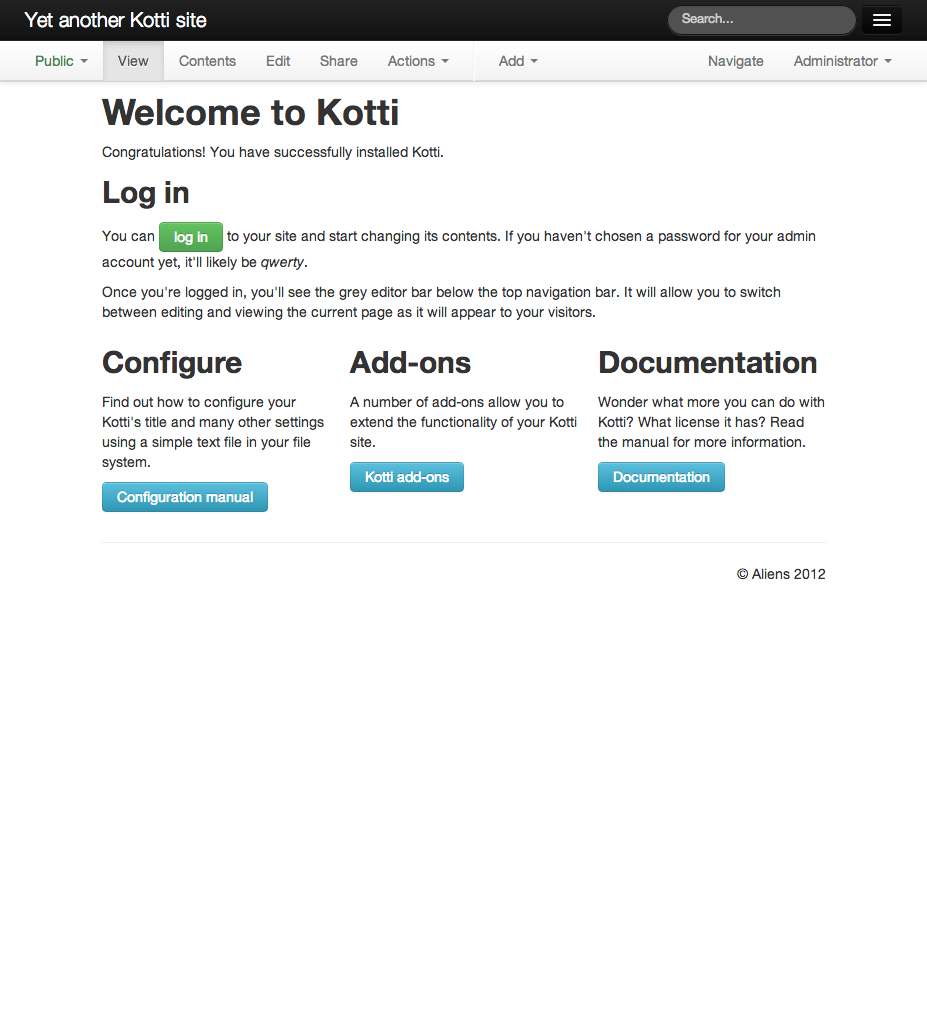
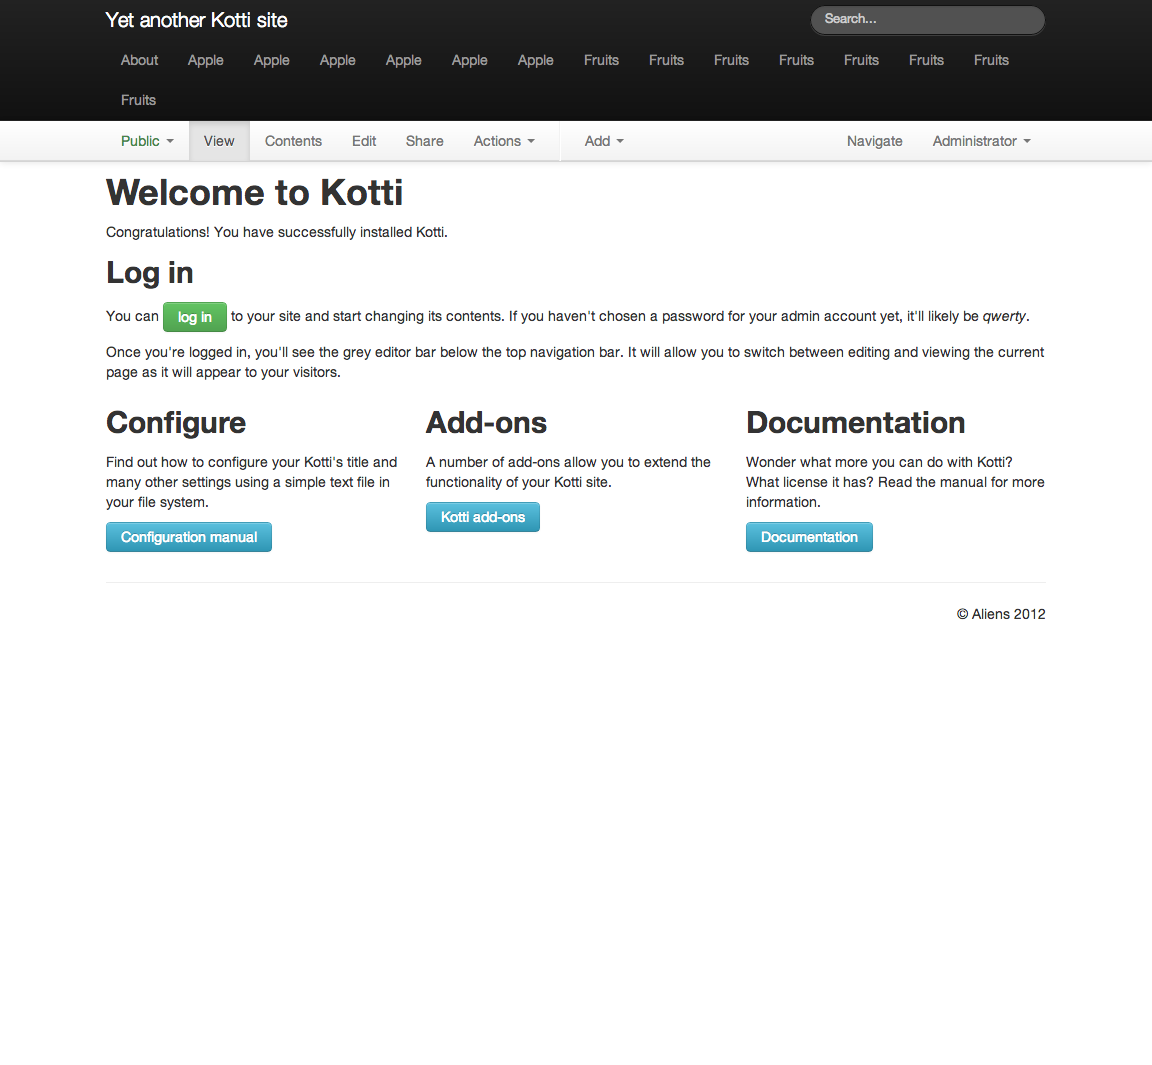
Improved capture script to use WebdriverWait, and with better ordering and flow. Added reporting system with a timer.

Changed region(s): [[0.0, 0.0, 1.0, 0.5162], [0.7853, 0.5465, 0.9061, 0.6072]]

diff --git a/scripts/kotti_capture.py b/scripts/kotti_capture.py
@@ -1,21 +1,32 @@
 #!/usr/bin/env python
 import os
+import time
+import contextlib
 from selenium import webdriver
 from selenium.webdriver.common.keys import Keys
 from selenium.webdriver.common.action_chains import ActionChains
+from selenium.webdriver.support.ui import WebDriverWait
 from PIL import Image
+
+# RPT = report to console
+reporting = True
+timing = True
+
+start = time.time()
+
+def RPT(message):
+    if reporting:
+        if timing:
+            print "{0} -- {1:g} seconds".format(message, time.time() - start)
+        else:
+            print message
+
+fruits = [u'Apple', u'Avocado', u'Banana', u'Cantaloupe', u'Cherry', u'Grape',
+          u'Kiwi', u'Lemon', u'Nectarine', u'Orange', u'Peach', u'Pineapple',
+          u'Plum', u'Strawberry']
 
 TOOLBAR_HEIGHT = 40
 MENU_HEIGHT = 40
-
-doc_files = ['../docs/kotti_basics/overview.rst',
-             '../docs/kotti_basics/users_and_roles.rst',
-             '../docs/adding_content/documents.rst',
-             '../docs/editing_content/view_selection.rst']
-
-chrome_driver_path = "{0}/chromedriver".format(os.getcwd())
-
-browser = webdriver.Chrome(chrome_driver_path)
 
 def log_in(browser):
 
@@ -30,6 +41,10 @@ def log_in(browser):
     elem = browser.find_element_by_name("submit")
     elem.click()
 
+    _logged_in = True
+
+    RPT('logged in')
+
     return browser
 
 def log_out(browser):
@@ -39,9 +54,15 @@ def log_out(browser):
     elem = browser.find_element_by_link_text('Logout')
     elem.click()
 
+    _logged_in = False
+
+    RPT('logged out')
+
 def logged_in(browser):
 
     browser.save_screenshot('../docs/images/logged_in.png')
+
+    RPT('logged_in captured')
 
 def not_logged_in(browser):
 
@@ -49,14 +70,20 @@ def not_logged_in(browser):
 
     browser.save_screenshot('../docs/images/not_logged_in.png')
 
+    RPT('not_logged_in captured')
+
 def main_menu(browser):
 
     logged_in(browser)
 
     im = Image.open("../docs/images/logged_in.png")
     width, height = im.size
-    im = im.crop((0, TOOLBAR_HEIGHT, width, TOOLBAR_HEIGHT + MENU_HEIGHT))
+    box = (0, int(TOOLBAR_HEIGHT),
+           int(width), int(TOOLBAR_HEIGHT + MENU_HEIGHT))
+    im = im.crop(box)
     im.save("../docs/images/main_menu.png")
+
+    RPT('main_menu captured')
 
 def capture_menu(browser, image_name, link_text,
                  margin_division_factor, menu_height_factor,
@@ -76,8 +103,8 @@ def capture_menu(browser, image_name, link_text,
     if submenu_link_text:
 
         elem = browser.find_element_by_link_text(submenu_link_text)
-        hov = ActionChains(browser).move_to_element(elem)
-        hov.perform()
+        hover = ActionChains(browser).move_to_element(elem)
+        hover.perform()
 
         image_path = "../docs/images/{0}.png".format(image_name)
         browser.save_screenshot(image_path)
@@ -103,15 +130,88 @@ def capture_menu(browser, image_name, link_text,
                 (dropdown_menu_width,
                  menu_height + menu_height_factor * elem.size['height'])
 
-    im = im.crop((left,
-                  top,
-                  left + width + width/margin_division_factor,
-                  top + height + height/margin_division_factor))
+    box = (int(left), int(top),
+           int(left + width + width/margin_division_factor),
+           int(top + height + height/margin_division_factor))
+
+    im = im.crop(box)
 
     im.save(image_path)
 
+    RPT("{0} captured".format(image_path.split('/')[-1]))
+
+def add_document(browser, title, description, body):
+    elem = browser.find_element_by_link_text('Add')
+    elem.click()
+
+    elem = browser.find_element_by_link_text("Document")
+    elem.click()
+
+    elem_title = browser.find_element_by_name('title')
+    elem_title.send_keys(title)
+
+    if description:
+        elem_description = browser.find_element_by_name('description')
+        elem_description.send_keys(description)
+
+    if body:
+        elem_body = browser.find_element_by_id('tinymce')
+
+        elem_p = elem_body.find_element_by_tag_name('p')
+        elem_p.send_keys(body)
+
+    wait = WebDriverWait(browser, 10)
+    elem_save = browser.find_element_by_name('save')
+    elem_save.click()
+
+    def save_was_successful(browser, wait):
+        elem = wait.until(lambda br: br.find_element_by_id('messages'))
+        for child in elem.find_elements_by_xpath('./*'):
+            if 'Success' in child.text:
+                return True
+        return False
+
+    wait.until(lambda browser: save_was_successful(browser, wait))
+
+    RPT('document {0} added'.format(title))
+
+def add_image(browser, title, description, image_abspath):
+
+    elem = browser.find_element_by_link_text('Add')
+    elem.click()
+
+    elem = browser.find_element_by_link_text("Image")
+    elem.click()
+
+    elem_title = browser.find_element_by_name('title')
+    elem_title.send_keys(title)
+
+    if description:
+        elem_description = browser.find_element_by_name('description')
+        elem_description.send_keys(description)
+
+    elem = browser.find_element_by_name("upload")
+    elem.send_keys(image_abspath)
+
+    wait = WebDriverWait(browser, 10)
+    elem_save = browser.find_element_by_name('save')
+    elem_save.click()
+
+    def upload_was_successful(browser, wait):
+        elem = wait.until(lambda br: br.find_element_by_id('messages'))
+        for child in elem.find_elements_by_xpath('./*'):
+            if 'Success' in child.text:
+                return True
+        return False
+
+    wait.until(lambda browser: upload_was_successful(browser, wait))
+
+    RPT('image {0} added'.format(title))
+
 ###################
 # Specific Images
+
+# These match functions which produce the images.
 
 def actions_menu(browser):
     capture_menu(browser, "actions_menu", "Actions", 4, 3,
@@ -123,13 +223,83 @@ def add_menu(browser):
 def admin_menu(browser):
     capture_menu(browser, "admin_menu", "Administrator", 4, 3)
 
+def contents_action_buttons(browser):
+
+    if click_main_nav_item(browser, 'Fruits'):
+
+        elem = browser.find_element_by_link_text('Contents')
+        elem.click()
+
+        browser.save_screenshot("../docs/images/contents_action_buttons.png")
+
+        RPT('contents_action_buttons captured')
+    else:
+        RPT('PROBLEM with contents_action_buttons capture')
+
+
+
+#####################
+# Utility Functions
+
+def click_main_nav_item(browser, text):
+    # First put the context on the root.
+    elem_brand = browser.find_element_by_class_name('brand')
+    elem_brand_link = elem_brand.find_element_by_tag_name('a')
+    elem_brand_link.click()
+
+    # Now find the top-level nav item and click it, if found.
+    elem_navbar = browser.find_element_by_class_name('navbar-inner')
+    elem_nav = elem_navbar.find_element_by_class_name('nav')
+    for li in elem_nav.find_elements_by_tag_name('li'):
+        for a in li.find_elements_by_tag_name('a'):
+            if text in a.text:
+               a.click()
+               RPT(text + ' clicked')
+               return True
+
+    return False
+
+def add_content(browser):
+
+    add_document(browser, 'Fruits', '', '')
+
+    for fruit in fruits:
+        if click_main_nav_item(browser, 'Fruits'):
+            image_name = "{0}_1200.jpg".format(fruit)
+            fruit_path = os.getcwd() + "/fruit_images/{0}".format(image_name)
+            add_image(browser, fruit, '', os.path.abspath(fruit_path))
+        else:
+            RPT('PROBLEM with contents_action_buttons capture')
+
 ################
 # Main routine
 
-# These two steps will log in, then capture logged_in image.
-browser = log_in(browser)
+doc_files = ['../docs/kotti_basics/overview.rst',
+             '../docs/kotti_basics/users_and_roles.rst',
+             '../docs/adding_content/documents.rst',
+             '../docs/editing_content/contents_view.rst',
+             '../docs/editing_content/view_selection.rst']
+
+chrome_driver_path = "{0}/chromedriver".format(os.getcwd())
+
+browser = log_in(webdriver.Chrome(chrome_driver_path))
+
+# Set the browser to full size to avoid wrapping issues.
+browser.maximize_window()
+
+# We have to pay attention to the order of ops somewhat, being careful about
+# the logging in / logging out main checks, but also about adding content
+# before making screen captures that expect the content to be there. This is
+# done by checking global flags.
+
+# This will log in, then capture general logged_in image.
 logged_in(browser)
 
+# Now that we are logged in,
+add_content(browser)
+
+# Now service requests for screen captures, coming in the form of image entries
+# in the Sphinx docs.
 for doc_file in doc_files:
     for line in open(doc_file):
         if line.startswith('.. Image::'):

diff --git a/docs/editing_content/contents_view.rst b/docs/editing_content/contents_view.rst
@@ -6,9 +6,9 @@ The Contents view shows contained items with data for each item: title, type,
 state (e.g. public or private), visibility (shown or hidden in navigation
 menu), and creation and modification dates. Each item has a checkbox, so you
 can select one or multiple items for doing an action via one of the buttons at
-the bottom of the view::
+the bottom of the view:
 
-  Copy | Cut | Rename | Delete | Change State | Move Up | Move Down | Show | Hide
+.. Image:: ../images/contents_action_buttons.png
 
 Copy and Cut
   Copy and Cut start a copy/paste or a cut/paste operation. After copying or
